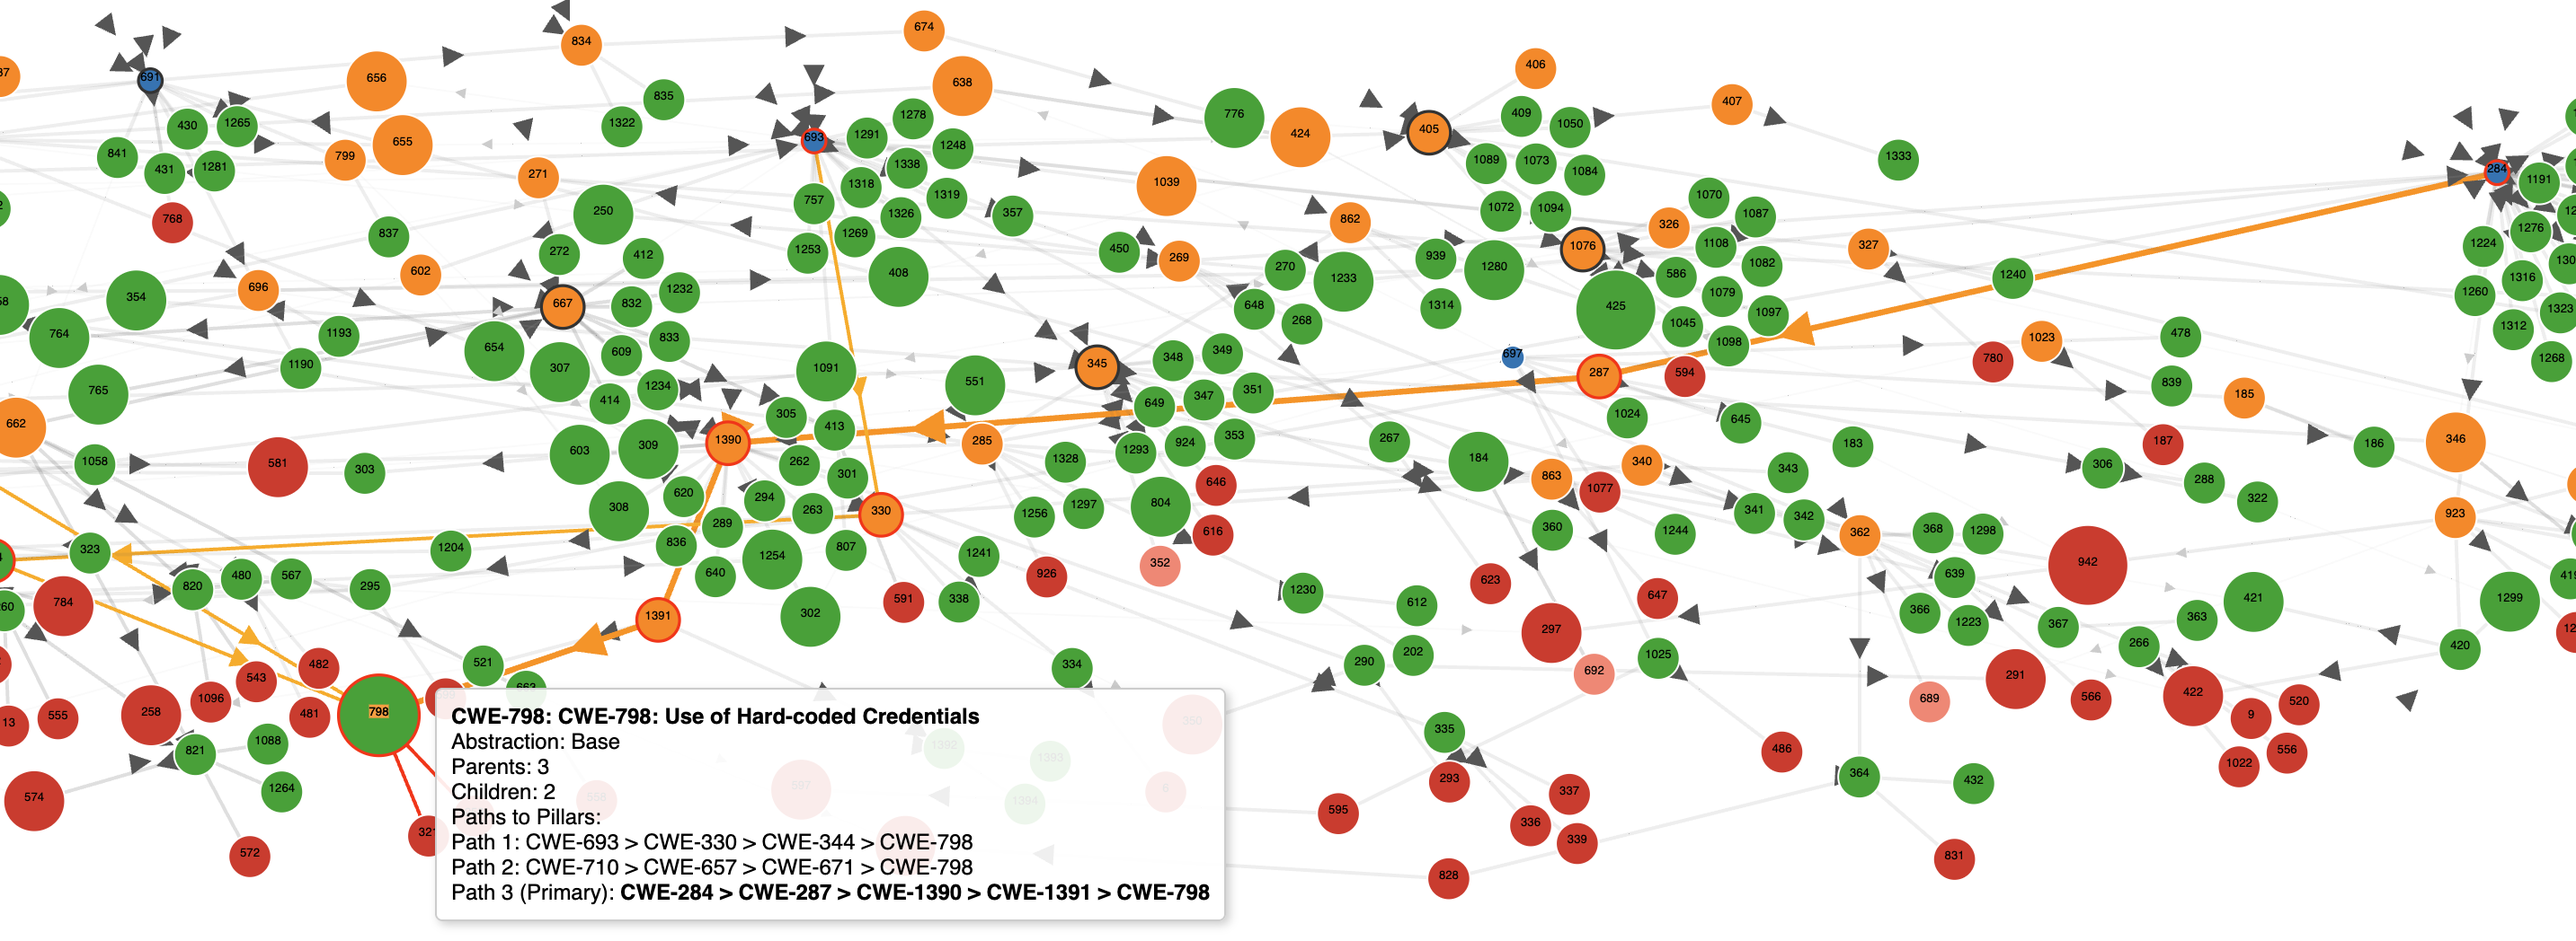
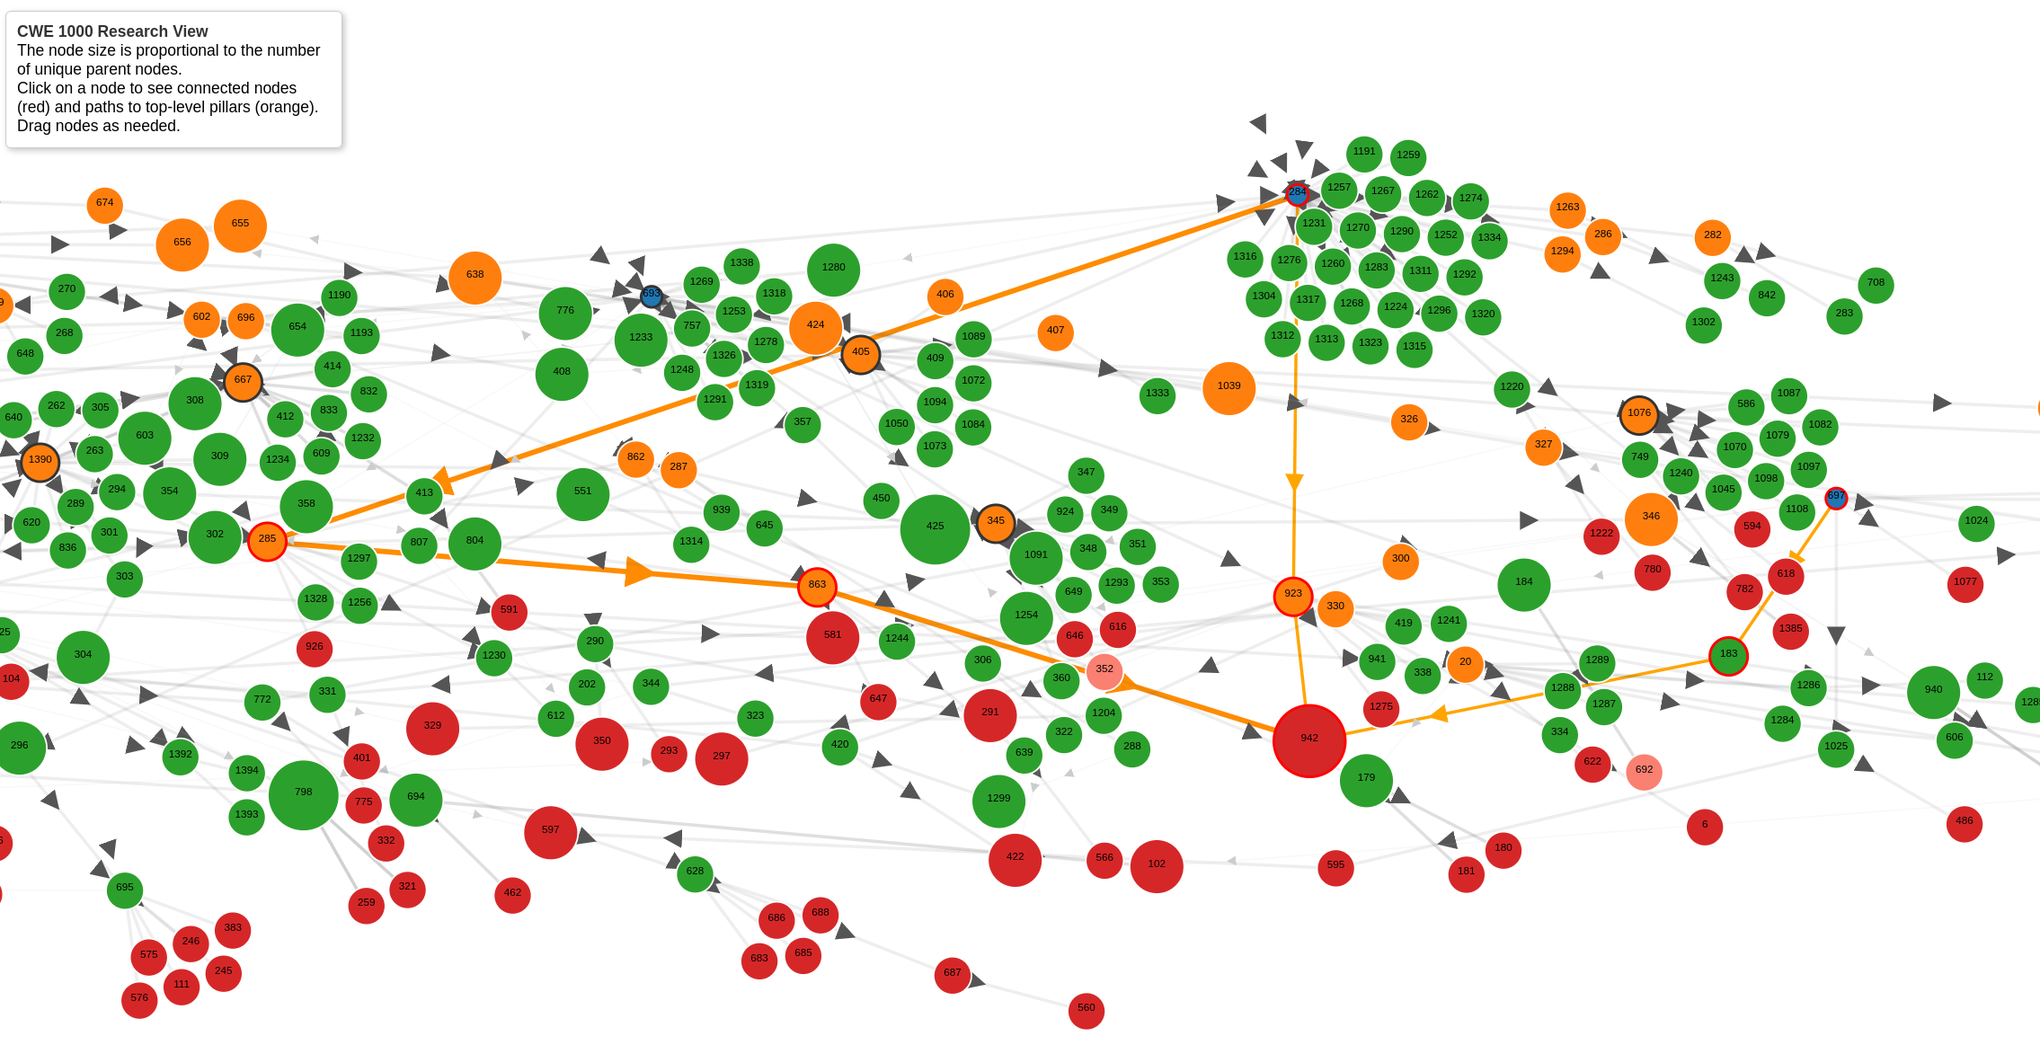
cwe paths to pillars example

diff --git a/docs/cwe/cwe_1000.md b/docs/cwe/cwe_1000.md
@@ -1,7 +1,9 @@
 ---
 icon: material/play-box-edit-outline 
 ---
+
 # CWE 1000 
+
 !!! abstract "Overview"
 
     Two hands-on interactive diagrams are given here to help better understand CWE-1000:
@@ -168,15 +170,14 @@ The children of CWE-1000 are 10 pillars that organize the weakness CWEs:
 
 #### Example CWE-798 
 
-1. [CWE-798](https://cwe.mitre.org/data/definitions/798.html) has 3 Parents per Relationships for View-1000:
-   > 1. ChildOf	Base	344	Use of Invariant Value in Dynamically Changing Context
-   > 2. ChildOf	Class	671	Lack of Administrator Control over Security
-   > 3. ChildOf	Class	1391	Use of Weak Credentials
-2. It links to 3 Pillars (Navy) as shown by the orange Paths to Pillars
-   1.  CWE-284 is the Primary Pillar based on the Primary Path (heavy orange path in diagram)
-       1.  Path 1: CWE-693 > CWE-330 > CWE-344 > CWE-798
-       2.  Path 2: CWE-710 > CWE-657 > CWE-671 > CWE-798
-       3.  **Path 3 (Primary): CWE-284 > CWE-287 > CWE-1390 > CWE-1391 > CWE-798**
+1. [CWE-798](https://cwe.mitre.org/data/definitions/798.html) has 3 Parents for View-1000:
+    1.  Path 1: CWE-284 > CWE-923 > CWE-942
+    2.  Path 2: CWE-697 > CWE-183 > CWE-942
+    3.  **Path 3 (Primary): CWE-284 > CWE-285 > CWE-863 > CWE-942**
+2. It links to 2 Pillars (Navy) as shown by the orange Paths to Pillars
+3. There are 2 paths from CWE-942 to CWE-284:
+   1. The heavy orange line is the Primary Path to CWE-284.
+   
 #### Example CWE-79 
 
 Per https://github.com/CWE-CAPEC/REST-API-wg/blob/main/json_repo/cwe.json:
